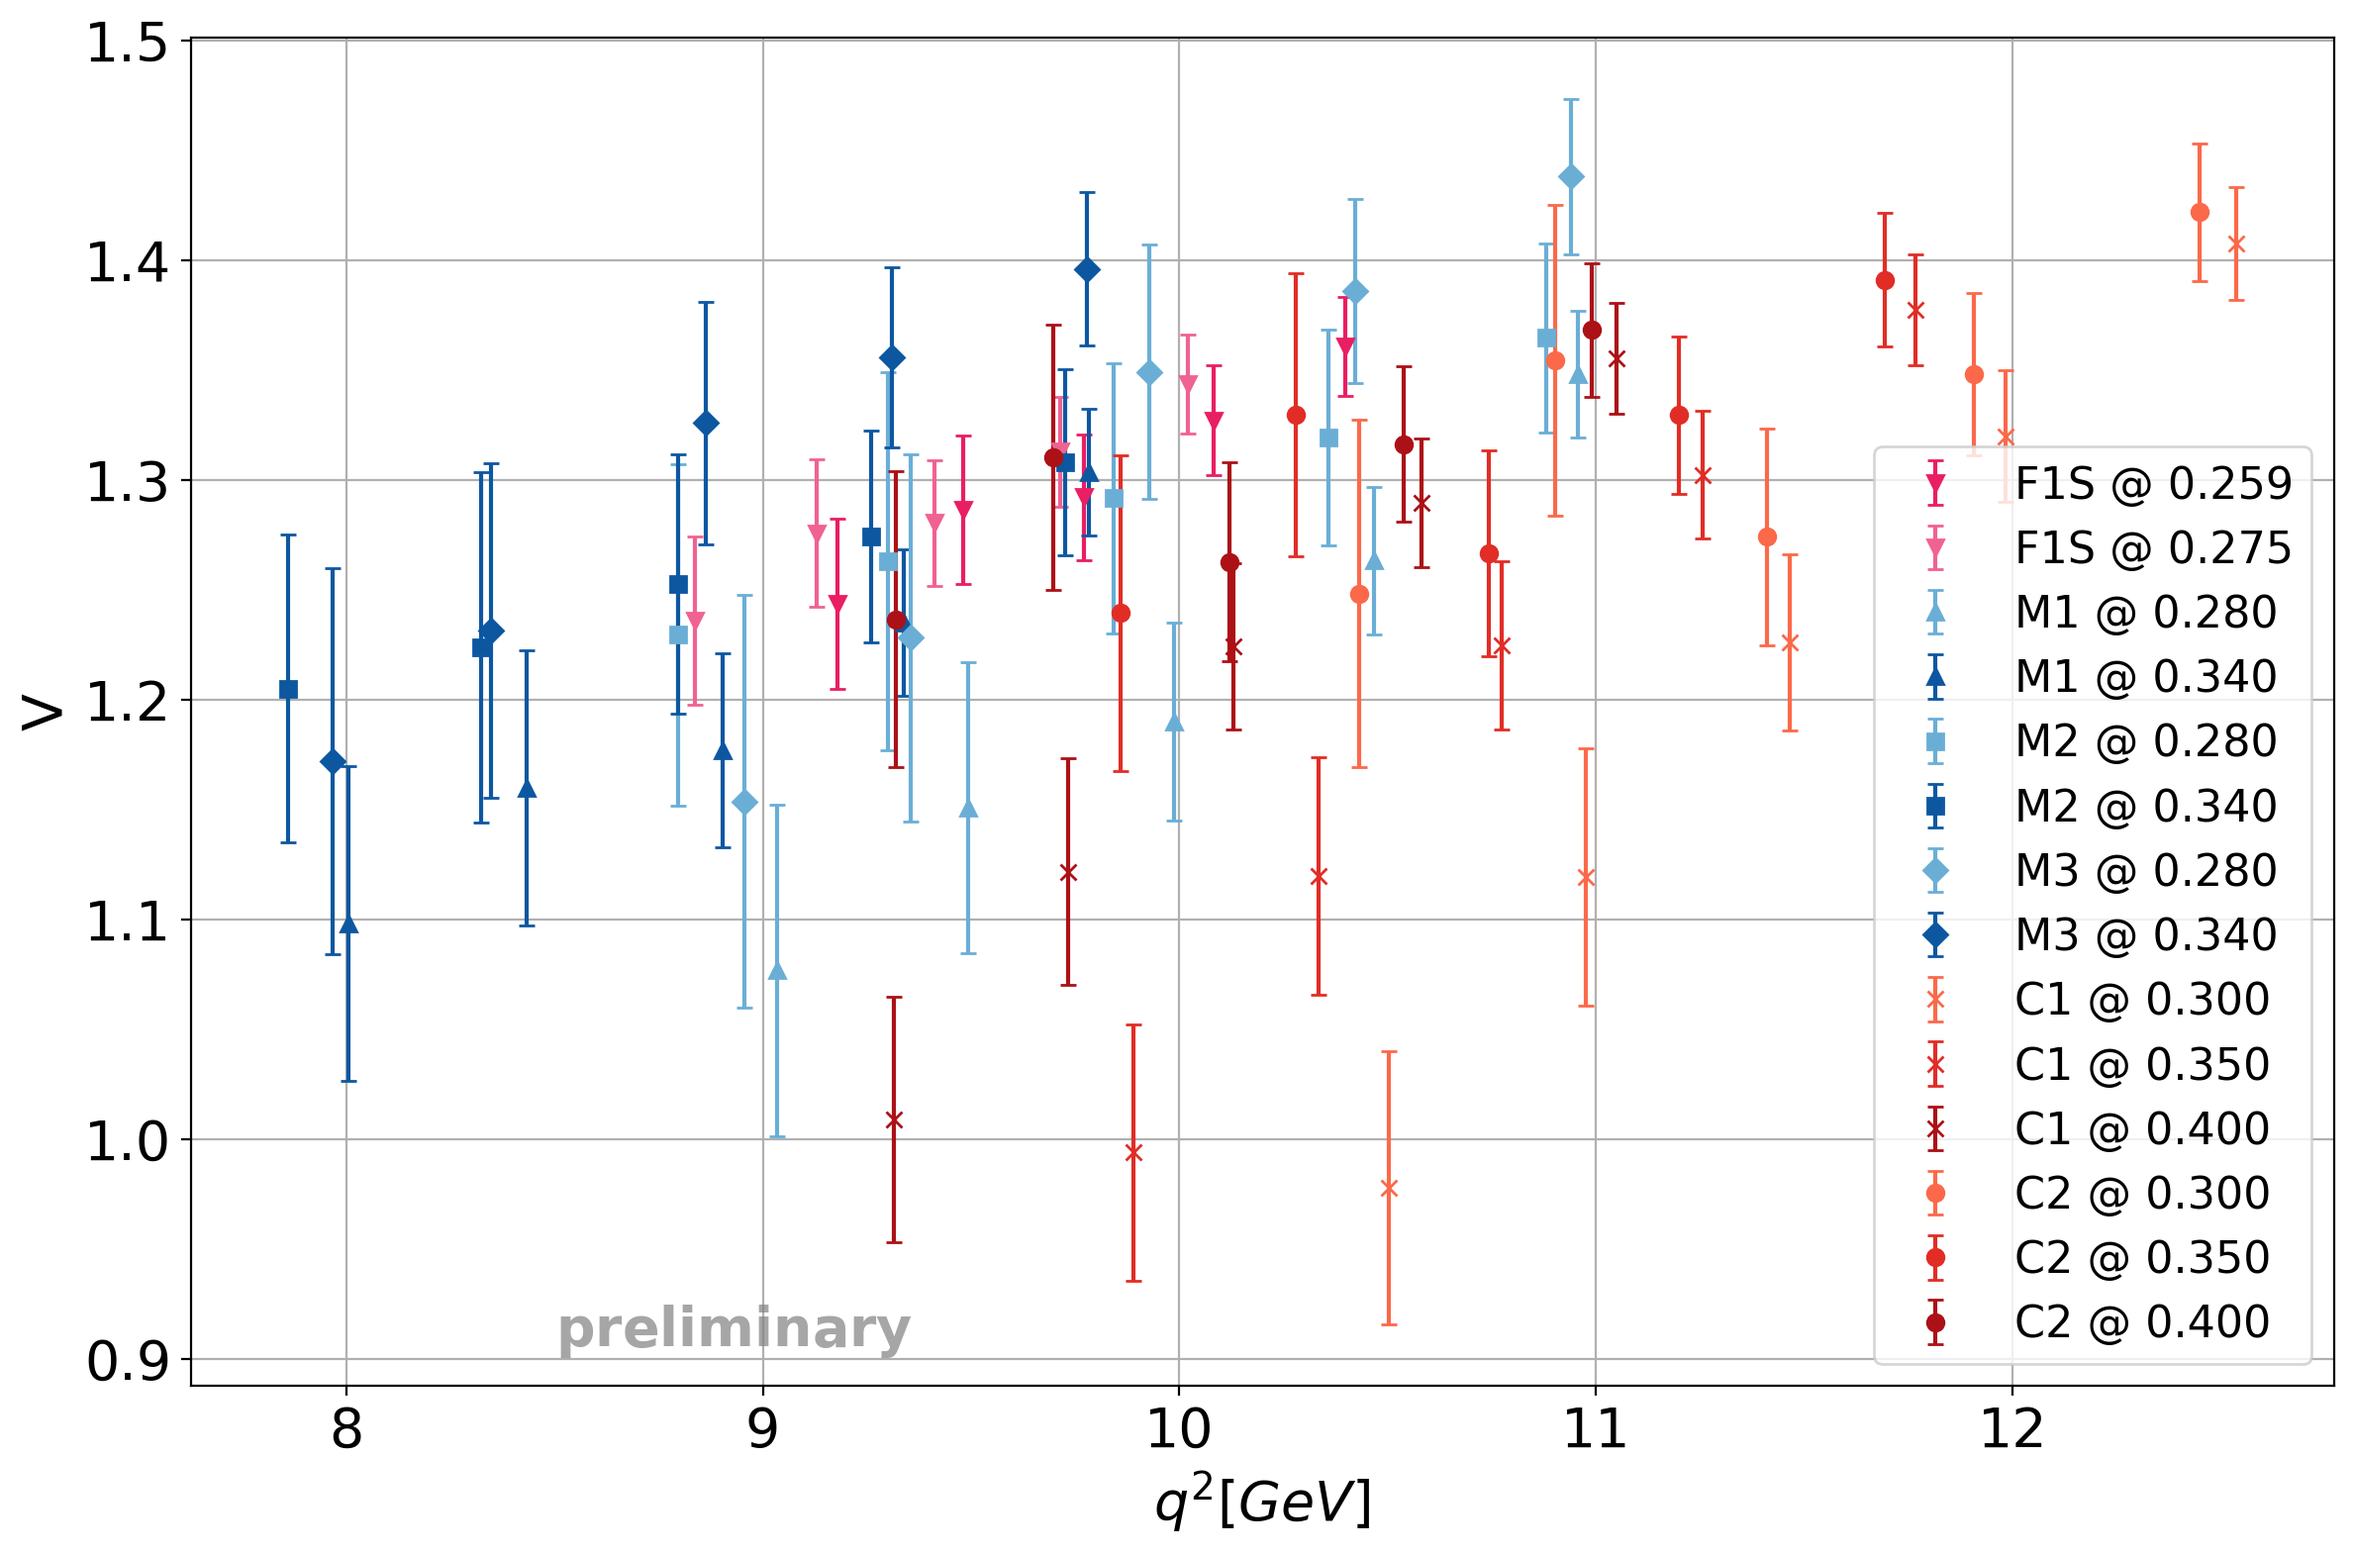
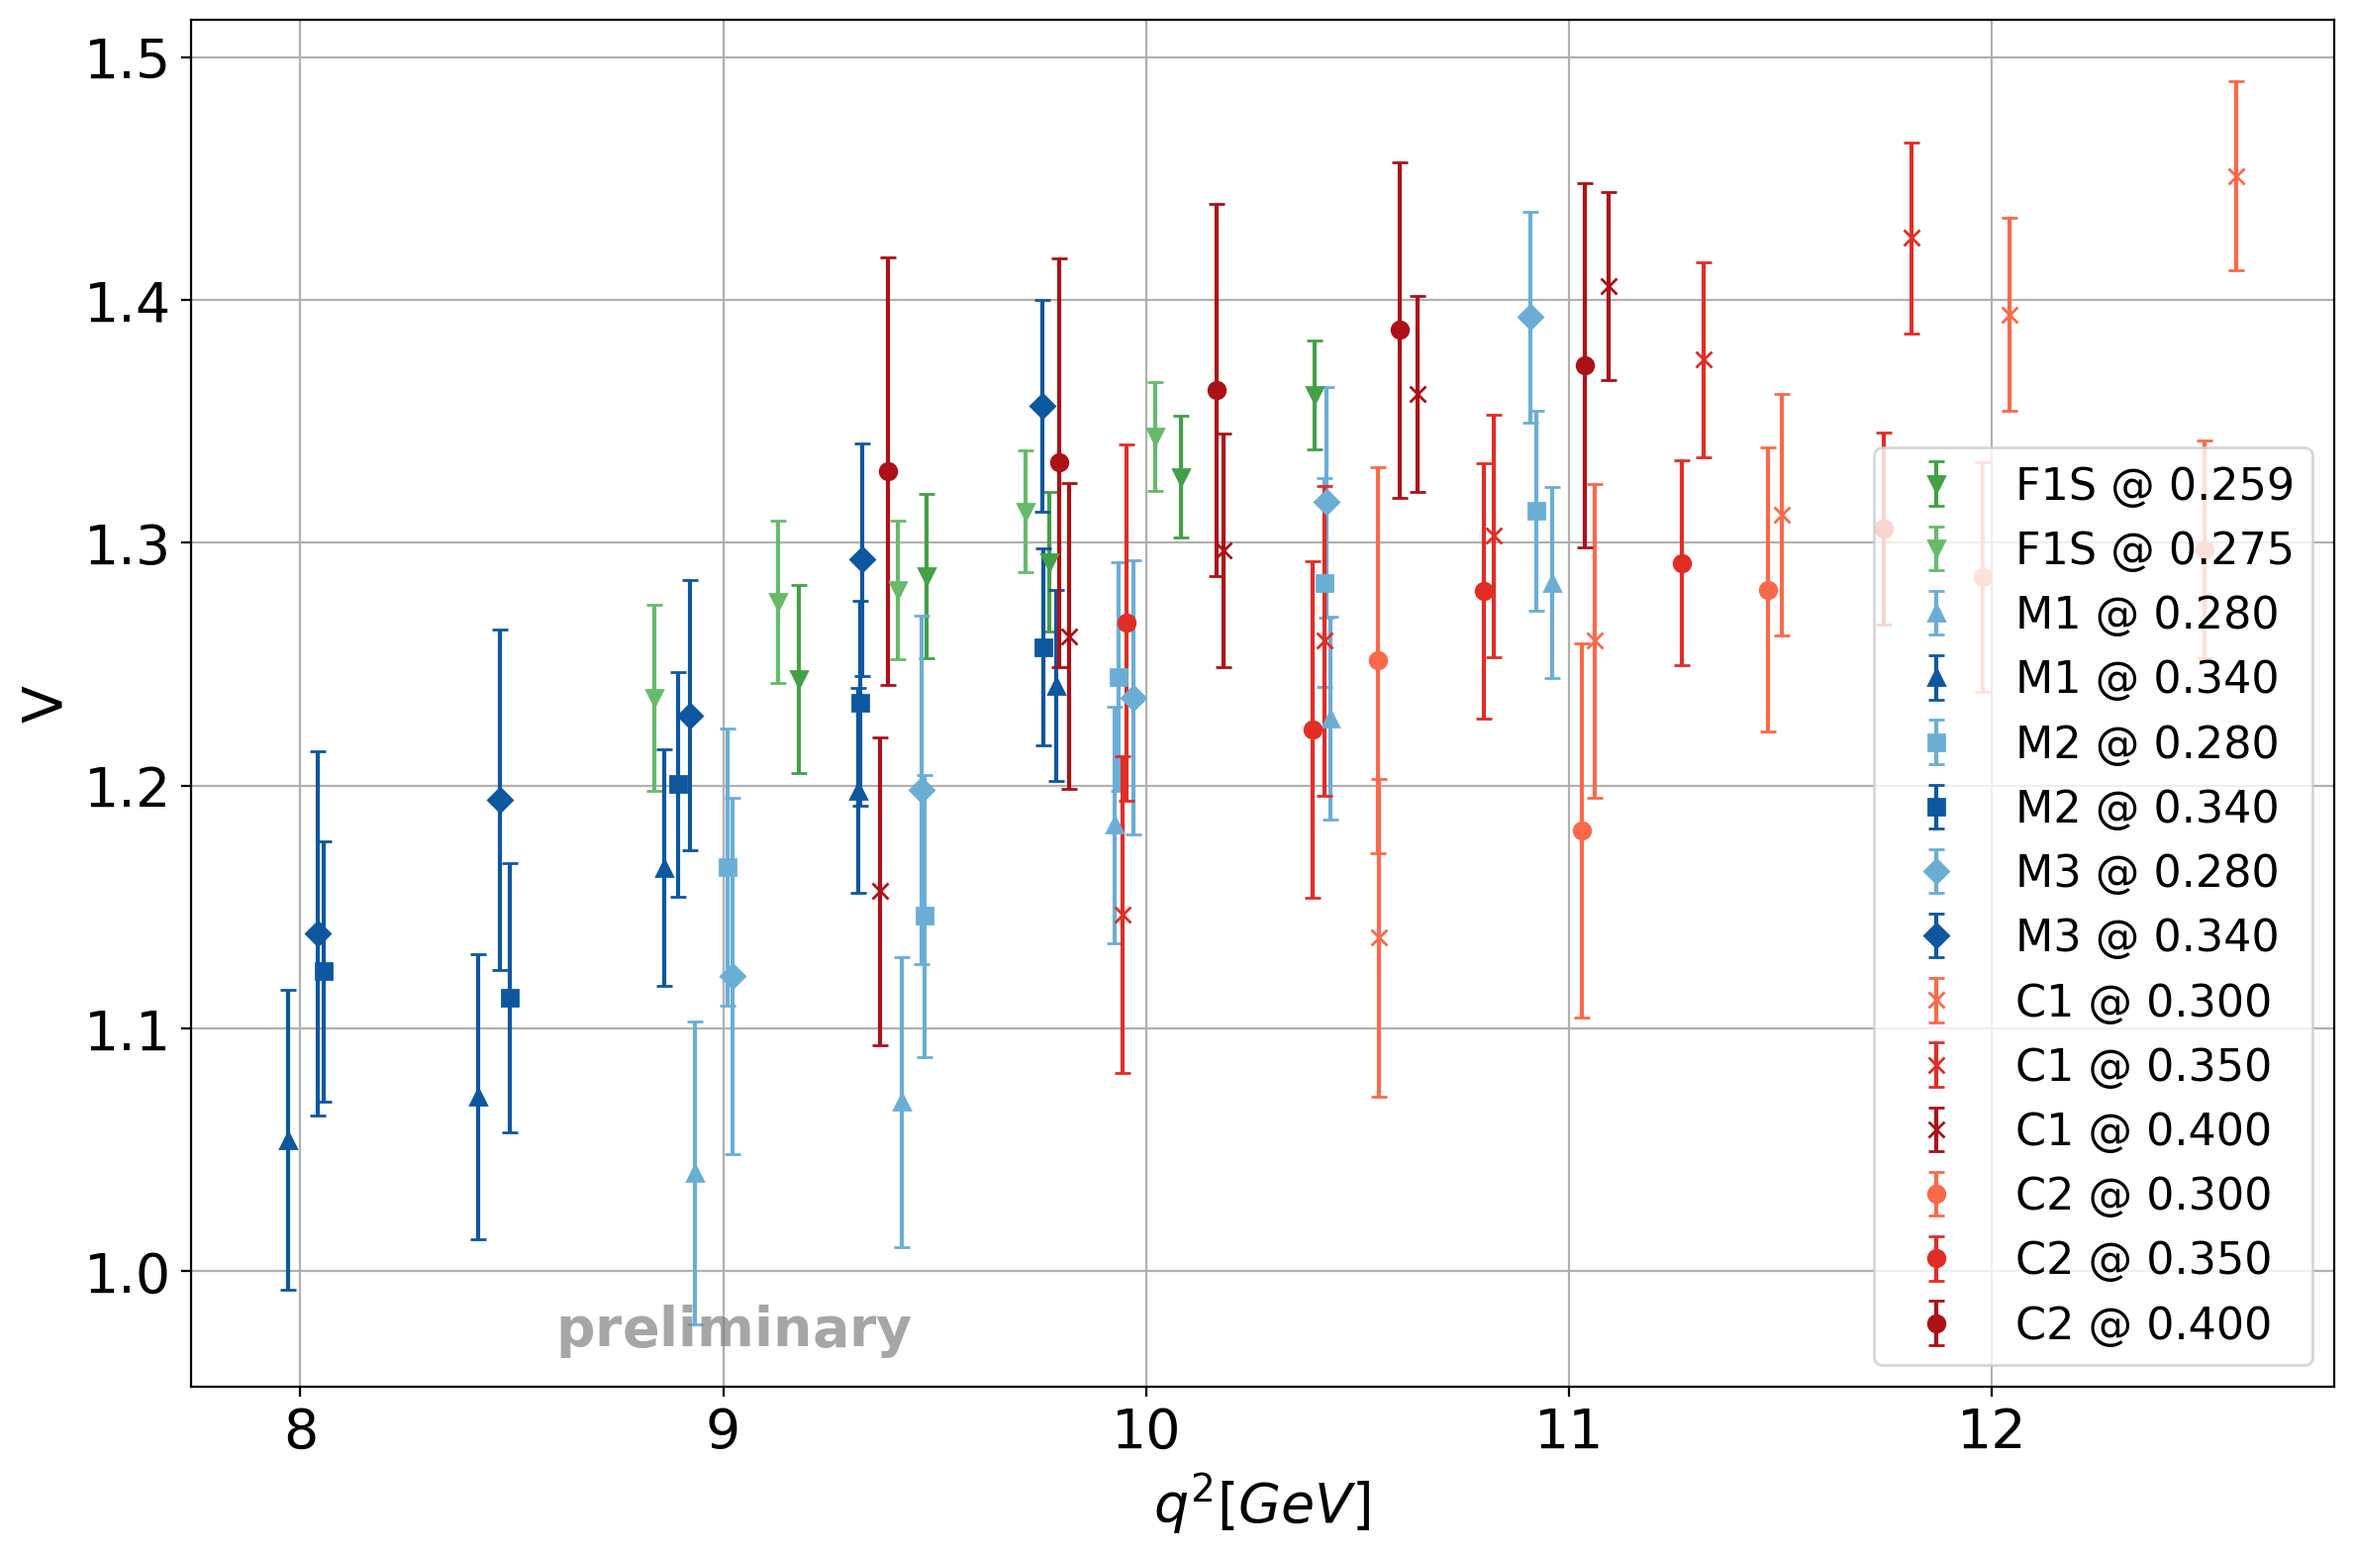
q^2 plot

diff --git a/Code/Crosscheck-excited-3pt.py b/Code/Crosscheck-excited-3pt.py
@@ -1,0 +1,65 @@
+import matplotlib.pyplot as plt
+import pandas as pd
+import numpy as np
+
+ens = 'M1'  # or 'M1', 'M2', etc.
+m='0.340'
+
+bs2ptm0=pd.read_csv('../Data/{}/2pt/Excited-comb-BsResult.csv'.format(ens), sep='\s')['Mass0'].iloc[0]
+ds2pt0m0=pd.read_csv('../Data/{}/2pt/Excited-comb-Ds{}Result-0.csv'.format(ens,m), sep='\s')['Mass0'].iloc[0]
+ds2pt1m0=pd.read_csv('../Data/{}/2pt/Excited-comb-Ds{}Result-1.csv'.format(ens,m), sep='\s')['Mass0'].iloc[0]
+ds2pt2m0=pd.read_csv('../Data/{}/2pt/Excited-comb-Ds{}Result-2.csv'.format(ens,m), sep='\s')['Mass0'].iloc[0]
+ds2pt3m0=pd.read_csv('../Data/{}/2pt/Excited-comb-Ds{}Result-3.csv'.format(ens,m), sep='\s')['Mass0'].iloc[0]
+ds2pt4m0=pd.read_csv('../Data/{}/2pt/Excited-comb-Ds{}Result-4.csv'.format(ens,m), sep='\s')['Mass0'].iloc[0]
+ds2pt5m0=pd.read_csv('../Data/{}/2pt/Excited-comb-Ds{}Result-5.csv'.format(ens,m), sep='\s')['Mass0'].iloc[0]
+
+
+v1=pd.read_csv('../Results/{}/{}/Fit/Excited-combined-V.csv'.format(ens,m),comment="#", sep="\t").iloc[:, 1][0]
+v2=pd.read_csv('../Results/{}/{}/Fit/Excited-combined-V.csv'.format(ens,m), comment="#", sep="\t").iloc[:, 1][1]
+v3=pd.read_csv('../Results/{}/{}/Fit/Excited-combined-V.csv'.format(ens,m), comment="#", sep="\t").iloc[:, 1][2]
+v4=pd.read_csv('../Results/{}/{}/Fit/Excited-combined-V.csv'.format(ens,m), comment="#", sep="\t").iloc[:, 1][3]
+v5=pd.read_csv('../Results/{}/{}/Fit/Excited-combined-V.csv'.format(ens,m), comment="#", sep="\t").iloc[:, 1][4]
+
+data=[bs2ptm0,ds2pt0m0,ds2pt1m0, ds2pt2m0,ds2pt3m0,ds2pt4m0,ds2pt5m0,v1,v2,v3,v4,v5]
+
+bs2ptem0=pd.read_csv('../Data/{}/2pt/Excited-comb-BsResult.csv'.format(ens), sep='\s')['DeltaM0'].iloc[0]
+ds2pt0em0=pd.read_csv('../Data/{}/2pt/Excited-comb-Ds{}Result-0.csv'.format(ens,m), sep='\s')['DeltaM0'].iloc[0]
+ds2pt1em0=pd.read_csv('../Data/{}/2pt/Excited-comb-Ds{}Result-1.csv'.format(ens,m), sep='\s')['DeltaM0'].iloc[0]
+ds2pt2em0=pd.read_csv('../Data/{}/2pt/Excited-comb-Ds{}Result-2.csv'.format(ens,m), sep='\s')['DeltaM0'].iloc[0]
+ds2pt3em0=pd.read_csv('../Data/{}/2pt/Excited-comb-Ds{}Result-3.csv'.format(ens,m), sep='\s')['DeltaM0'].iloc[0]
+ds2pt4em0=pd.read_csv('../Data/{}/2pt/Excited-comb-Ds{}Result-4.csv'.format(ens,m), sep='\s')['DeltaM0'].iloc[0]
+ds2pt5em0=pd.read_csv('../Data/{}/2pt/Excited-comb-Ds{}Result-5.csv'.format(ens,m), sep='\s')['DeltaM0'].iloc[0]
+
+v1e=pd.read_csv('../Results/{}/{}/Fit/Excited-combined-V.csv'.format(ens,m),comment="#", sep="\t").iloc[:, 2][0]
+v2e=pd.read_csv('../Results/{}/{}/Fit/Excited-combined-V.csv'.format(ens,m),comment="#", sep="\t").iloc[:, 2][1]
+v3e=pd.read_csv('../Results/{}/{}/Fit/Excited-combined-V.csv'.format(ens,m),comment="#", sep="\t").iloc[:, 2][2]
+v4e=pd.read_csv('../Results/{}/{}/Fit/Excited-combined-V.csv'.format(ens,m),comment="#", sep="\t").iloc[:, 2][3]
+v5e=pd.read_csv('../Results/{}/{}/Fit/Excited-combined-V.csv'.format(ens,m),comment="#", sep="\t").iloc[:, 2][4]
+
+
+error=[bs2ptem0,ds2pt0em0,ds2pt1em0,ds2pt2em0,ds2pt3em0,ds2pt4em0,ds2pt5em0,v1e,v2e,v3e,v4e,v5e]
+
+v1p = None
+with open('../Results/{}/{}/Fit/Excited-combined-V.csv'.format(ens,m)) as f:
+    for line in f:
+        if line.startswith("# pvalue:"):
+            # Split at ":" and take the number after it
+            v1p = float(line.split(":")[1].strip())
+            break
+
+
+
+
+#v1p=pd.read_csv('../Results/{}/{}/Fit/V/pval-V-nsq1.csv'.format(ens,m), sep='\s')['pval'].iloc[0]
+#v2p=pd.read_csv('../Results/{}/{}/Fit/V/pval-V-nsq2.csv'.format(ens,m), sep='\s')['pval'].iloc[0]
+#v3p=pd.read_csv('../Results/{}/{}/Fit/V/pval-V-nsq3.csv'.format(ens,m), sep='\s')['pval'].iloc[0]
+#v4p=pd.read_csv('../Results/{}/{}/Fit/V/pval-V-nsq4.csv'.format(ens,m), sep='\s')['pval'].iloc[0]
+#v5p=pd.read_csv('../Results/{}/{}/Fit/V/pval-V-nsq5.csv'.format(ens,m), sep='\s')['pval'].iloc[0]
+
+
+pval=[v1p,v1p,v1p,v1p,v1p,v1p,v1p,v1p,v1p,v1p,v1p,v1p]
+df3 = pd.DataFrame(columns=['Value','Error','pval'])
+df3['Value']=data
+df3['Error']=error
+df3['pval']=pval
+df3.to_csv('../Results/Crosschecks/AB/Crosscheck-excited-{}-{}-3pt.csv'.format(ens,m), sep='\t')

diff --git a/Code/Plot-Final.py b/Code/Plot-Final.py
@@ -109,8 +109,8 @@ marker_styles = {
 base_colors = {
     "C": plt.cm.Reds,
     "M": plt.cm.Blues}
-bright_pinks = ["#e91e63", "#f06292", "#f48fb1"] 
-
+#bright_pinks = ["#e91e63", "#f06292", "#f48fb1"] 
+bright_pinks = ["#43A047", "#66BB6A", "#9CCC65"]
 
 def get_rho_prefix(ens):
     if ens.startswith("C"):
@@ -158,7 +158,10 @@ for ens, masses in ens_masses.items():
         
         prefactor = rho_val * np.sqrt(zacc_val * zvbb_val)
         
-        filepath = f"../Results/Crosschecks/AB/Crosscheck-{ens}-{m}.csv"
+        if ens == 'F1S':
+            filepath = f"../Results/Crosschecks/AB/Crosscheck-{ens}-{m}.csv"
+        else:
+            filepath = f"../Results/Crosschecks/AB/Crosscheck-excited-{ens}-{m}-3pt.csv"    
         if not os.path.exists(filepath):
             print(f"File not found: {filepath}")
             continue
@@ -217,6 +220,7 @@ plt.grid(True)
 plt.tight_layout()
 plt.savefig('V-FPlot.png',transparent=True,dpi=200,bbox_inches='tight')
 
+'''
 # === Neuer Plot für A_0 ===
 plt.figure(figsize=(12, 8))
 
@@ -382,3 +386,4 @@ plt.ylabel(r"$A_1$")
 plt.grid(True)
 plt.tight_layout()
 plt.savefig('A1-FPlot.pdf')
+''' 
